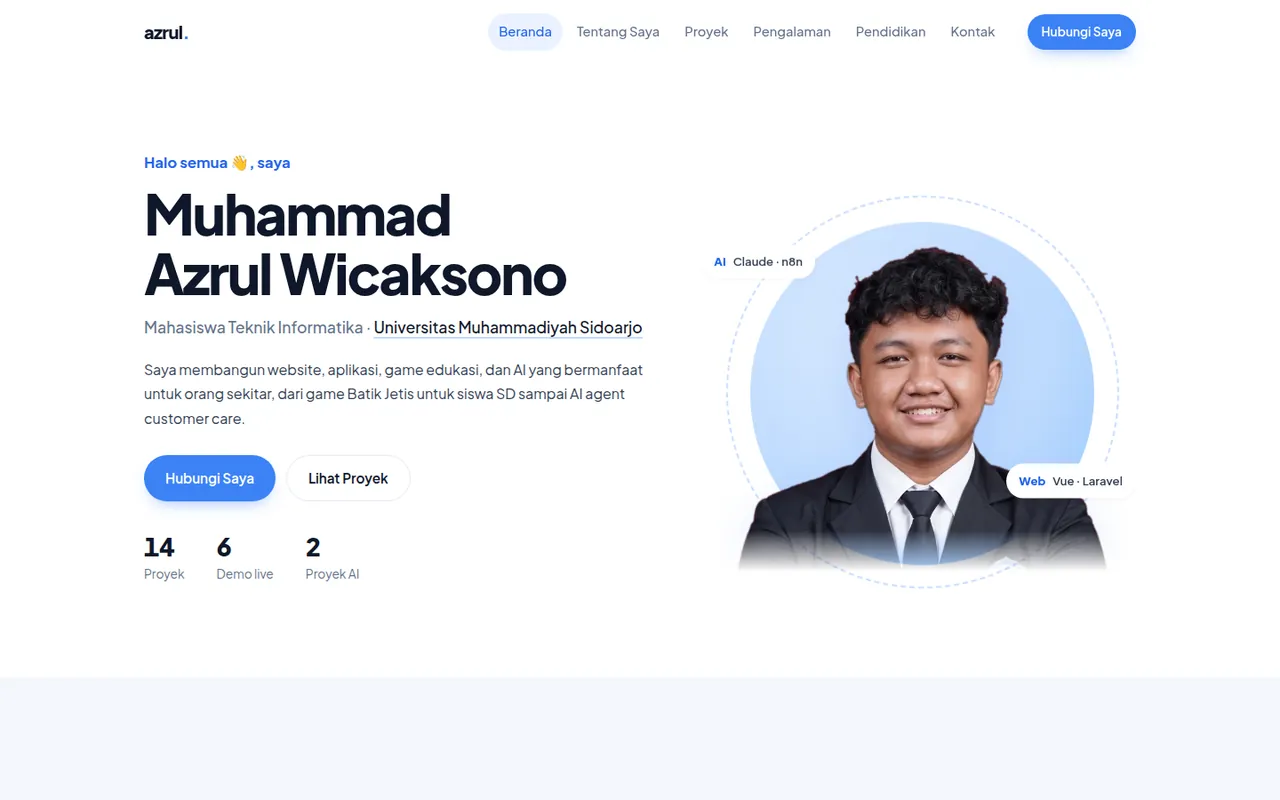
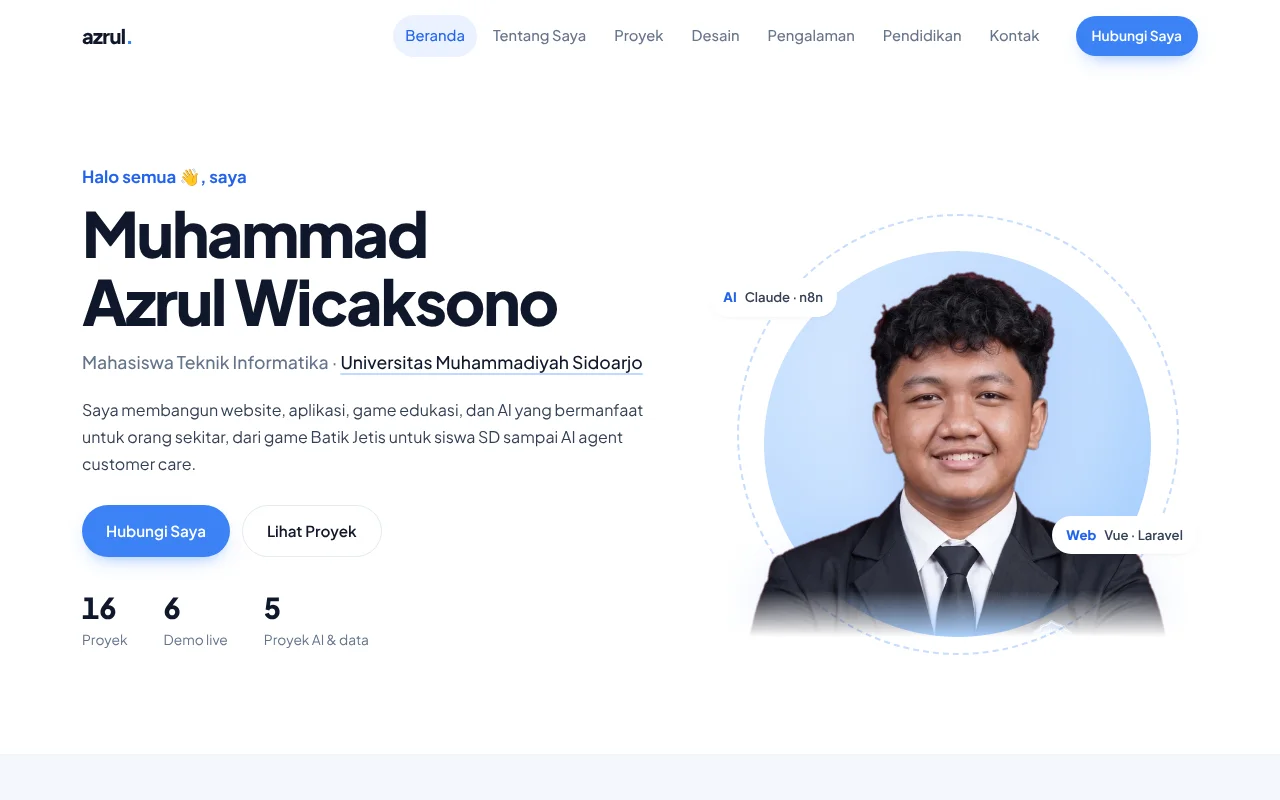
Tambah ilustrasi untuk proyek tanpa gambar, perbarui tangkapan layar portofolio
Claude-Session: https://claude.ai/code/session_014a7y5WPzDRp7R7ur9T7Dat

diff --git a/js/data.js b/js/data.js
@@ -63,6 +63,10 @@
             shot('lapor-progres', 'Progres per item RAB: bobot, volume kontrak, volume terpasang, dan persentase progres.'),
             shot('lapor-evaluasi', 'Evaluasi terhadap data berlabel manual: precision 0,98, recall 1,00, dan F1 0,99 pada data contoh minggu 1–6.'),
         ],
+        // Ilustrasi sampul untuk proyek yang belum punya tangkapan layar (bukan tampilan aplikasi asli)
+        jkn: [shot('jkn-ilustrasi', 'Ilustrasi alur penelitian: data kuesioner, preprocessing, tiga model (Random Forest, SVM, CatBoost), lalu validasi statistik untuk memilih model terbaik. Bukan tangkapan layar.')],
+        debt: [shot('debt-ilustrasi', 'Ilustrasi konsep gameplay: siklus kelola modal, beri pinjaman, tagih utang, lalu kembangkan usaha. Game masih dikembangkan di Unity, jadi ini bukan tangkapan layar.')],
+        kost: [shot('kost-ilustrasi', 'Ilustrasi proyek: aplikasi pengelolaan kamar kos dengan login dan pendaftaran akun. Bukan tangkapan layar aplikasi.')],
         aicourse: [
             shot('aicourse-chat', 'Chat CS kursus: calon siswa bisa bertanya soal course, biaya, dan lama belajar. AI menjawab hanya dari katalog course dan FAQ.'),
             shot('aicourse-bayar', 'Halaman simulasi pembayaran (mode mock): order Rp599.000 berubah dari pending menjadi paid. Dengan Server Key Midtrans, halaman ini diganti link Snap asli.'),
@@ -216,19 +220,19 @@
                 demo: IO + 'azrstudio/', repo: GH + 'azrstudio', shots: SHOTS.azr,
             },
             {
-                id: 'jkn', status: 'Sedang berjalan', kind: 'Skripsi · Machine learning', cats: ['data', 'ai'], icon: 'chart',
+                id: 'jkn', status: 'Sedang berjalan', kind: 'Skripsi · Machine learning', cats: ['data', 'ai'], shots: SHOTS.jkn, illustration: true,
                 title: 'Klasifikasi Kepuasan Pengguna Mobile JKN',
                 text: 'Membandingkan Random Forest, SVM, dan CatBoost untuk mengklasifikasikan kepuasan pengguna Mobile JKN, dengan validasi statistik.',
                 tags: ['Python', 'Scikit-learn', 'CatBoost'],
             },
             {
-                id: 'debt', status: 'Dalam pengembangan', kind: 'Game simulasi PC', cats: ['play'], icon: 'game',
+                id: 'debt', status: 'Dalam pengembangan', kind: 'Game simulasi PC', cats: ['play'], shots: SHOTS.debt, illustration: true,
                 title: 'Debt Collector Simulator',
                 text: 'Game simulasi bergaya Landlord Simulator: mengelola modal, menyalurkan pinjaman, dan menagih utang.',
                 tags: ['Unity', 'C#'],
             },
             {
-                id: 'kost', status: 'Dalam pengembangan', kind: 'Aplikasi web', cats: ['app'], icon: 'home',
+                id: 'kost', status: 'Dalam pengembangan', kind: 'Aplikasi web', cats: ['app'], shots: SHOTS.kost, illustration: true,
                 title: 'Kost · Manajemen Kamar',
                 text: 'Aplikasi Laravel dengan autentikasi untuk mengelola kamar kos. Fitur kelola kamar masih dikerjakan.',
                 tags: ['Laravel', 'Blade'],

diff --git a/src/ts/data.ts b/src/ts/data.ts
@@ -64,6 +64,10 @@
       shot('lapor-progres', 'Progres per item RAB: bobot, volume kontrak, volume terpasang, dan persentase progres.'),
       shot('lapor-evaluasi', 'Evaluasi terhadap data berlabel manual: precision 0,98, recall 1,00, dan F1 0,99 pada data contoh minggu 1–6.'),
     ],
+    // Ilustrasi sampul untuk proyek yang belum punya tangkapan layar (bukan tampilan aplikasi asli)
+    jkn: [shot('jkn-ilustrasi', 'Ilustrasi alur penelitian: data kuesioner, preprocessing, tiga model (Random Forest, SVM, CatBoost), lalu validasi statistik untuk memilih model terbaik. Bukan tangkapan layar.')],
+    debt: [shot('debt-ilustrasi', 'Ilustrasi konsep gameplay: siklus kelola modal, beri pinjaman, tagih utang, lalu kembangkan usaha. Game masih dikembangkan di Unity, jadi ini bukan tangkapan layar.')],
+    kost: [shot('kost-ilustrasi', 'Ilustrasi proyek: aplikasi pengelolaan kamar kos dengan login dan pendaftaran akun. Bukan tangkapan layar aplikasi.')],
     aicourse: [
       shot('aicourse-chat', 'Chat CS kursus: calon siswa bisa bertanya soal course, biaya, dan lama belajar. AI menjawab hanya dari katalog course dan FAQ.'),
       shot('aicourse-bayar', 'Halaman simulasi pembayaran (mode mock): order Rp599.000 berubah dari pending menjadi paid. Dengan Server Key Midtrans, halaman ini diganti link Snap asli.'),
@@ -224,19 +228,19 @@
         demo: IO + 'azrstudio/', repo: GH + 'azrstudio', shots: SHOTS.azr,
       },
       {
-        id: 'jkn', status: 'Sedang berjalan', kind: 'Skripsi · Machine learning', cats: ['data', 'ai'], icon: 'chart',
+        id: 'jkn', status: 'Sedang berjalan', kind: 'Skripsi · Machine learning', cats: ['data', 'ai'], shots: SHOTS.jkn, illustration: true,
         title: 'Klasifikasi Kepuasan Pengguna Mobile JKN',
         text: 'Membandingkan Random Forest, SVM, dan CatBoost untuk mengklasifikasikan kepuasan pengguna Mobile JKN, dengan validasi statistik.',
         tags: ['Python', 'Scikit-learn', 'CatBoost'],
       },
       {
-        id: 'debt', status: 'Dalam pengembangan', kind: 'Game simulasi PC', cats: ['play'], icon: 'game',
+        id: 'debt', status: 'Dalam pengembangan', kind: 'Game simulasi PC', cats: ['play'], shots: SHOTS.debt, illustration: true,
         title: 'Debt Collector Simulator',
         text: 'Game simulasi bergaya Landlord Simulator: mengelola modal, menyalurkan pinjaman, dan menagih utang.',
         tags: ['Unity', 'C#'],
       },
       {
-        id: 'kost', status: 'Dalam pengembangan', kind: 'Aplikasi web', cats: ['app'], icon: 'home',
+        id: 'kost', status: 'Dalam pengembangan', kind: 'Aplikasi web', cats: ['app'], shots: SHOTS.kost, illustration: true,
         title: 'Kost · Manajemen Kamar',
         text: 'Aplikasi Laravel dengan autentikasi untuk mengelola kamar kos. Fitur kelola kamar masih dikerjakan.',
         tags: ['Laravel', 'Blade'],

diff --git a/index.html b/index.html
@@ -132,7 +132,7 @@
               <div class="card lift">
                 <button v-if="p.shots" type="button" class="thumb" @click="openProject(p, 0)" :aria-label="'Lihat gambar ' + p.title">
                   <img :src="p.shots[0].src" :alt="p.shots[0].caption" loading="lazy">
-                  <span class="thumb-count">{{ p.shots.length }} gambar</span>
+                  <span class="thumb-count">{{ p.illustration ? 'Ilustrasi' : p.shots.length + ' gambar' }}</span>
                 </button>
                 <div v-else class="thumb placeholder" :class="'ph-' + (p.icon || 'web')" aria-hidden="true">
                   <span class="ph-icon"></span>

diff --git a/src/ts/globals.d.ts b/src/ts/globals.d.ts
@@ -21,6 +21,7 @@ interface Project {
   cats: string[];        // dipakai filter: ai, web, app, play, data
   status?: string;       // mis. "Prototipe", "Dalam pengembangan"
   featured?: boolean;    // tampil dengan label "Unggulan"
+  illustration?: boolean; // gambar berupa ilustrasi, bukan tangkapan layar
   demo?: string;
   repo?: string;
   shots?: Shot[];
